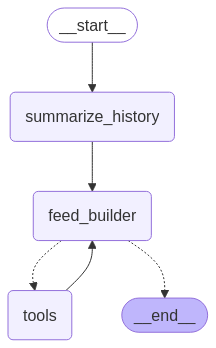
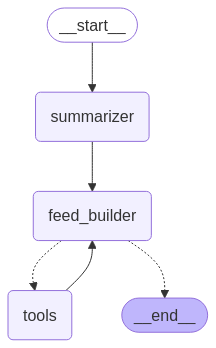
fix: feed builder

Changed region(s): [[0.0278, 0.2586, 0.8056, 0.431], [0.8056, 0.2874, 0.8333, 0.4023]]

diff --git a/feed_builder.py b/feed_builder.py
@@ -3,21 +3,28 @@ from langchain_groq import ChatGroq
 from langgraph.graph import START, END, StateGraph, MessagesState
 from langgraph.prebuilt import tools_condition, ToolNode
 from IPython.display import Image
-from langchain_core.messages import HumanMessage, ToolMessage
+from langchain_core.messages import HumanMessage
 from dotenv import load_dotenv
 from langgraph.checkpoint.memory import MemorySaver
 from typing import List, Optional
 import requests
 import os
 import json
-import logging
+from langfuse.callback import CallbackHandler
 
-
-
+# ---- API keys ---- #
 load_dotenv()
 mbd_api_key = os.getenv("MBD_API_KEY")
 
+# ---- Langfuse cloud ----#
+langfuse_handler = CallbackHandler(
+    public_key=os.getenv("LANGFUSE_PUBLIC_KEY"),
+    secret_key=os.getenv("LANGFUSE_SECRET_KEY"),
+    host="https://cloud.langfuse.com" 
+)
 
+
+# ---- Utils ---- #
 def extract_cast_info(api_response: json) -> dict:
     """
     Extract cast information from the API response.
@@ -48,7 +55,7 @@ def get_personalized_feed(user_id: str) -> str:
     url = "https://api.mbd.xyz/v2/farcaster/casts/feed/for-you"
     payload = {
         "user_id": user_id,
-        "top_k": 1,
+        "top_k": 3,
         "feed_id": "feed_352",
     }
     headers = {
@@ -98,34 +105,48 @@ def get_popular_cast() -> List[dict]:
     input_for_llm = extract_cast_info(json.loads(response.text))
     return input_for_llm
 
+
+# ---- Models ---- #
+
 # Small model for summarization
 summarizer_llm = ChatGroq(model="llama-3.1-8b-instant", temperature=0)
 
-# Define LLM with bind tools
+# Big model with tools
 mbd_tools = [get_personalized_feed, get_trending_cast, get_popular_cast]
 llm = ChatGroq(model="deepseek-r1-distill-llama-70b", temperature=0)
 llm_with_tools = llm.bind_tools(mbd_tools)
 
-# Custom feed state
+
+# ---- State ---- #
+
 class FeedState(MessagesState):
-    summary : Optional[str]=None
+    summary : Optional[str] = None
+
+# ---- Nodes ---- #
 
 # Node for summarizing history
 def summarize_history(state: FeedState):
     messages = state["messages"]
-    if len(messages) <= 2:
-        return {"messages": messages, "summary": None}
-    
-    history_text = "\n".join(
-        [f"{m.type.upper()}: {m.content}" for m in messages]
-    )
-    summary_prompt = ("You are a summarization assistant helping another AI agent stay informed with minimal context."
-    "Summarize only the essential highlights of the conversation in a very concise manner, so that the agent knows all the steps taken."
-    "The summary follow the format: 'User says: {text}'. AI says {text}."
-    "If the user gives personal information, like a user id, focus on that."
-    "About the AI responses, focus just on the main points, like the tool called and NOT the results."
+    summary = state["summary"]
+
+    history_text = ""
+    if len(messages) == 1:
+        history_text = messages[0].content
+    else:
+        history_text = "\n\n".join(
+            [f"{m.type.upper()}: {m.content}" for m in messages[:-1]]
+        )
+
+    summary_prompt = (
+    "You are a summarization assistant. Your only task is to condense a conversation as much as possible."
+    "Paraphrase the conversation in a concise way, preserving the meaning and intent of the original messages."
+    "Preserve all user-provided details, especially personal information like user IDs, names, or preferences."
+    "For AI responses, omit them entirely unless they involve a critical step (e.g., a tool call). "
+    "If the AI response includes tool results like user-generated content (e.g., posts, authors, texts), "
+    "do not include them in the summary, only mention that a tool was called."
     f"\n\nConversation:\n\n{history_text}"
     )
+
     summary_output = summarizer_llm.invoke(summary_prompt)
     summarized_context = summary_output.content
     return {"summary": summarized_context, "messages": messages}
@@ -137,26 +158,37 @@ sys_msg = SystemMessage("You are a helpful assistant for retrieving MBD feed dat
 "If the user is just greeting or making small talk, respond accordingly and ask how you can help."
 "If you receive a result from tool, respond to user in natural language using this format: @{author} says: {text}."
 "You can also use the following tools: get_trending_cast, get_popular_cast."
+"If the user asks for its personal information, first check if it's present in the summary."
+"If it's not included, politely inform the user that it cannot be remembered."
 )
 
 # Node for feed_builder
 def feed_builder(state: FeedState):
     if state["summary"] is not None:
+        sys_summary = SystemMessage(
+            content=(
+                "This is your memory summary of the conversation so far.\n"
+                "Before answering, always check if the required information is already included below.\n\n"
+                f"--- BEGIN SUMMARY ---\n{state['summary']}\n--- END SUMMARY ---"
+            )
+        )
         if state["messages"][-1].type == 'tool':
-            return {"messages": [llm_with_tools.invoke([sys_msg, SystemMessage(content=state["summary"])]+ state["messages"][-2:])]} 
+            return {"messages": [llm_with_tools.invoke([sys_msg]+ state["messages"][-2:])]} 
         else: 
-            return {"messages": [llm_with_tools.invoke([sys_msg, SystemMessage(content=state["summary"])]+ [state["messages"][-1]])]} 
+            return {"messages": [llm_with_tools.invoke([sys_msg, sys_summary]+ [state["messages"][-1]])]} 
     else:
         return {"messages": [llm_with_tools.invoke([sys_msg] + state["messages"])]}
 
 
-# Build graph
+
+# ---- Graph ---- #
+
 builder = StateGraph(FeedState)
-builder.add_node("summarize_history", summarize_history)
+builder.add_node("summarizer", summarize_history)
 builder.add_node("feed_builder", feed_builder)
-builder.add_node("tools", ToolNode(mbd_tools))
-builder.add_edge(START, "summarize_history")
-builder.add_edge("summarize_history", "feed_builder")
+builder.add_node("tools", ToolNode(tools = mbd_tools))
+builder.add_edge(START, "summarizer")
+builder.add_edge("summarizer", "feed_builder")
 builder.add_conditional_edges(
     "feed_builder",
     # If the latest message (result) from assistant is a tool call -> tools_condition routes to tools
@@ -167,36 +199,42 @@ builder.add_edge("tools", "feed_builder")
 # Memory
 memory = MemorySaver()
 # Compile graph
-graph_memory = builder.compile(checkpointer=memory)
+agent_feed_builder = builder.compile(checkpointer=memory)
 # Visualize graph
-visualize_graph = False
+visualize_graph = True
 if visualize_graph:
-    image = Image(graph_memory.get_graph().draw_mermaid_png())
+    image = Image(agent_feed_builder.get_graph().draw_mermaid_png())
     with open("graphs/feed_builder.png", "wb") as f:
         f.write(image.data)
 # Config for memory
-config = {"configurable": {"thread_id": "2"}}
+config = {
+    "configurable": {"thread_id": "2"},
+    "callbacks": [langfuse_handler],
+}
 
 
-# ---- Hello World Example ---- #   
+
+# ---- Examples ---- #
+
+# Hello World Example  
 
 messages = [HumanMessage(content="Hello World! I'm Matteo.")]
-messages = graph_memory.invoke({"messages": messages}, config)
+messages = agent_feed_builder.invoke({"messages": messages, "summary": None}, config)
 for m in messages['messages']:
     m.pretty_print()
 
-# ---- Personalized Feed Example ---- #
+# Personalized Feed Example 
 
-#messages = [HumanMessage(content="Give me the personalized feed.")]
-#messages = graph_memory.invoke({"messages": messages}, config)
-#for m in messages['messages']:
-#    m.pretty_print()
-#messages = [HumanMessage(content="My user id is 123.")]
-#messages = graph_memory.invoke({"messages": messages}, config)
-#for m in messages['messages']:
-#    m.pretty_print()
-#messages = [HumanMessage(content="What is my user id?")]
-#messages = graph_memory.invoke({"messages": messages}, config)
-#for m in messages['messages']:
-#    m.pretty_print()
+messages = [HumanMessage(content="Give me the personalized feed.")]
+messages = agent_feed_builder.invoke({"messages": messages}, config)
+for m in messages['messages']:
+    m.pretty_print()
+messages = [HumanMessage(content="My user id is 123.")]
+messages = agent_feed_builder.invoke({"messages": messages}, config)
+for m in messages['messages']:
+    m.pretty_print()
+messages = [HumanMessage(content="What is my user id?")]
+messages = agent_feed_builder.invoke({"messages": messages}, config)
+for m in messages['messages']:
+    m.pretty_print()
 
